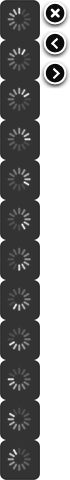
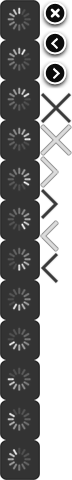
Cosmetic
New images for arrows.
Decreased padding.

diff --git a/jquery.fancybox.css b/jquery.fancybox.css
@@ -178,36 +178,40 @@
 #fancybox-left-ico, #fancybox-right-ico {
 	position: absolute;
 	top: 50%;
-	left: -9999px;
-	width: 30px;
-	height: 30px;
+/*	left: -9999px; */
+	width: 19px;
+	height: 32px;
 	margin-top: -15px;
 	cursor: pointer;
 	z-index: 41102;
 	display: block;
+	opacity:1;
+	background-image: url('images/fancybox.png');
 }
 
 #fancybox-left-ico {
-	background-image: url('images/fancybox.png');
-	background-position: -40px -30px;
+	left: 15px;
+	background-position: -40px -220px;
 }
 
 #fancybox-right-ico {
-	background-image: url('images/fancybox.png');
-	background-position: -40px -60px;
+	right: 15px;
+	background-position: -40px -156px;
 }
 
 #fancybox-left:hover, #fancybox-right:hover {
 	visibility: visible; /* IE6 */
 }
-
-#fancybox-left:hover span {
-	left: 10px;
+#fancybox-left:hover #fancybox-left-ico{
+	background-position: -40px -252px;
+} 
+#fancybox-right:hover #fancybox-right-ico{
+	background-position: -40px -188px;
 }
 
+#fancybox-left:hover span,
 #fancybox-right:hover span {
-	left: auto;
-	right: 10px;
+	opacity:1;
 }
 
 #fancybox-title {

diff --git a/jquery.fancybox.js b/jquery.fancybox.js
@@ -1163,7 +1163,7 @@
 	};
 
 	$.fn.fancybox.defaults = {
-		padding : 10,
+		padding : 5,
 		margin : 40,
 		opacity : false,
 		modal : false,
